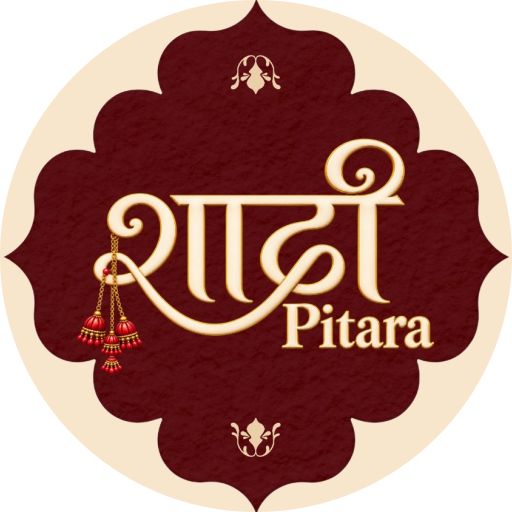
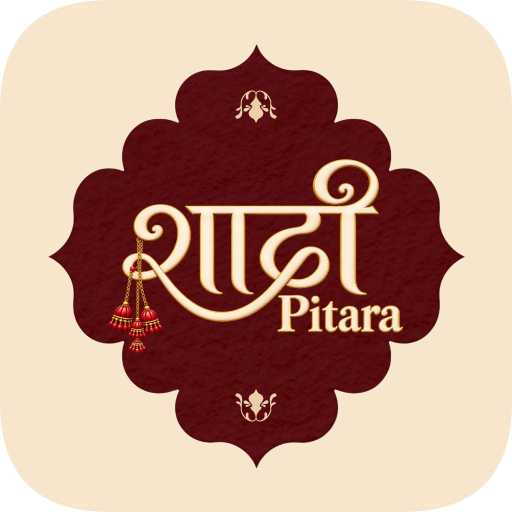
updated

diff --git a/src/app/works/page.jsx b/src/app/works/page.jsx
@@ -71,7 +71,7 @@ function DesktopDraggableRow({ cat, catReels, openModal }) {
   };
 
   return (
-    <div>
+    <div id={`cat-${cat.id}`} data-cat-id={cat.id} data-cat-label={cat.label}>
       {/* Header */}
       <div style={{ display: "flex", alignItems: "center", gap: 16, marginBottom: 20, padding: "0 clamp(16px, 4vw, 48px)" }}>
         <h3 style={{ fontFamily: "'Playfair Display', Georgia, serif", fontSize: "clamp(32px, 3.5vw, 42px)", fontWeight: 400, fontStyle: "italic", margin: 0, color: "var(--brand-cream)", letterSpacing: "0.02em" }}>
@@ -168,19 +168,17 @@ function DesktopDraggableRow({ cat, catReels, openModal }) {
               overflow: "hidden",
               cursor: isDragging ? "grabbing" : "pointer",
               background: "var(--brand-maroon-dark)",
-              border: "1px solid rgba(212,184,150,0.08)",
-              transition: isDragging ? "none" : "transform 0.5s cubic-bezier(0.23,1,0.32,1), border-color 0.5s ease, box-shadow 0.5s ease",
+              border: "1px solid rgba(212,184,150,0.12)",
+              transition: isDragging ? "none" : "transform 0.5s cubic-bezier(0.23,1,0.32,1), border-color 0.5s ease",
             }}
             onMouseEnter={(e) => {
               if (isDragging) return;
               e.currentTarget.style.transform = "scale(1.02)";
-              e.currentTarget.style.borderColor = "rgba(212,184,150,0.3)";
-              e.currentTarget.style.boxShadow = "0 24px 56px rgba(0,0,0,0.35)";
+              e.currentTarget.style.borderColor = "rgba(212,184,150,0.35)";
             }}
             onMouseLeave={(e) => {
               e.currentTarget.style.transform = "scale(1)";
-              e.currentTarget.style.borderColor = "rgba(212,184,150,0.08)";
-              e.currentTarget.style.boxShadow = "none";
+              e.currentTarget.style.borderColor = "rgba(212,184,150,0.12)";
             }}
           >
             <img
@@ -198,11 +196,6 @@ function DesktopDraggableRow({ cat, catReels, openModal }) {
                 transition: "transform 0.7s cubic-bezier(0.23,1,0.32,1)",
               }}
             />
-            <div style={{
-              position: "absolute", inset: 0,
-              background: "linear-gradient(to top, rgba(46,10,13,0.95) 0%, rgba(46,10,13,0.35) 45%, rgba(46,10,13,0.02) 100%)",
-              zIndex: 2, pointerEvents: "none",
-            }} />
             
             {/* Duration */}
             <div style={{
@@ -210,12 +203,12 @@ function DesktopDraggableRow({ cat, catReels, openModal }) {
               zIndex: 5, pointerEvents: "none",
               fontFamily: "var(--font-mono)", fontSize: 10,
               letterSpacing: "0.15em",
-              color: "rgba(245,230,204,0.7)",
-              background: "rgba(46,10,13,0.6)",
+              color: "rgba(245,230,204,0.85)",
+              background: "rgba(26,5,7,0.72)",
               backdropFilter: "blur(6px)",
               padding: "4px 10px",
               borderRadius: 4,
-              border: "1px solid rgba(212,184,150,0.15)",
+              border: "1px solid rgba(212,184,150,0.2)",
             }}>
               {item.duration}
             </div>
@@ -237,8 +230,8 @@ function DesktopDraggableRow({ cat, catReels, openModal }) {
                 width: 52,
                 height: 52,
                 borderRadius: "50%",
-                background: "rgba(10, 2, 3, 0.7)",
-                border: "1.5px solid rgba(212, 184, 150, 0.65)",
+                background: "rgba(10, 2, 3, 0.65)",
+                border: "1.5px solid rgba(212, 184, 150, 0.7)",
                 backdropFilter: "blur(8px)",
                 WebkitBackdropFilter: "blur(8px)",
                 display: "flex",
@@ -246,7 +239,6 @@ function DesktopDraggableRow({ cat, catReels, openModal }) {
                 justifyContent: "center",
                 zIndex: 6,
                 cursor: "pointer",
-                boxShadow: "0 8px 24px rgba(0,0,0,0.55)",
                 transition: "transform 0.3s ease, border-color 0.3s ease, background 0.3s ease",
               }}
               className="card-play-btn"
@@ -266,13 +258,15 @@ function DesktopDraggableRow({ cat, catReels, openModal }) {
               <div style={{
                 fontFamily: "var(--font-mono)", fontSize: 10,
                 letterSpacing: "0.25em", textTransform: "uppercase",
-                color: "var(--brand-gold)", marginBottom: 8,
+                color: "var(--brand-gold)", marginBottom: 6,
+                textShadow: "0 2px 8px rgba(0,0,0,0.9), 0 0 3px rgba(0,0,0,0.95)",
               }}>
                 {cat.label}
               </div>
               <div style={{
                 fontFamily: "var(--font-display)", fontSize: 20,
                 fontWeight: 600, color: "var(--brand-cream)", lineHeight: 1.2,
+                textShadow: "0 2px 10px rgba(0,0,0,0.95), 0 0 4px rgba(0,0,0,1)",
               }}>
                 {item.title}
               </div>
@@ -305,6 +299,40 @@ export default function WorkPage() {
     handleResize();
     window.addEventListener("resize", handleResize);
     return () => window.removeEventListener("resize", handleResize);
+  }, []);
+
+  // Dynamic browser title & active category tab on scroll
+  useEffect(() => {
+    const onScroll = () => {
+      const scrollY = window.scrollY || window.pageYOffset;
+      if (scrollY < 180) {
+        document.title = "Our Works — Shaadi Pitara | Cinematic Wedding Reels";
+        return;
+      }
+
+      let currentCat = null;
+      for (const cat of reelCategories) {
+        const el = document.getElementById(`cat-${cat.id}`) || document.getElementById(`cat-mobile-${cat.id}`);
+        if (el) {
+          const rect = el.getBoundingClientRect();
+          if (rect.top <= window.innerHeight * 0.45 && rect.bottom >= 80) {
+            currentCat = cat;
+          }
+        }
+      }
+
+      if (currentCat) {
+        setActiveTab(currentCat.id);
+        const newTitle = `${currentCat.label} — Our Works | Shaadi Pitara`;
+        if (document.title !== newTitle) {
+          document.title = newTitle;
+        }
+      }
+    };
+
+    window.addEventListener("scroll", onScroll, { passive: true });
+    onScroll();
+    return () => window.removeEventListener("scroll", onScroll);
   }, []);
 
   useEffect(() => {
@@ -448,6 +476,65 @@ export default function WorkPage() {
         </p>
       </div>
 
+      {/* Sticky Category Tabs Bar */}
+      <div
+        style={{
+          position: "sticky",
+          top: 0,
+          zIndex: 45,
+          background: "rgba(26, 5, 7, 0.88)",
+          backdropFilter: "blur(16px)",
+          WebkitBackdropFilter: "blur(16px)",
+          borderBottom: "1px solid rgba(212,184,150,0.12)",
+          padding: "10px clamp(12px, 3vw, 24px)",
+          display: "flex",
+          justifyContent: "center",
+          overflowX: "auto",
+          scrollbarWidth: "none",
+          msOverflowStyle: "none",
+        }}
+        className="cat-tabs-bar"
+      >
+        <style>{`.cat-tabs-bar::-webkit-scrollbar { display: none; }`}</style>
+        <div style={{ display: "flex", gap: 8, alignItems: "center", maxWidth: 1200, width: "100%", justifyContent: isMobile ? "flex-start" : "center" }}>
+          {reelCategories.map((cat) => {
+            const isActive = activeTab === cat.id;
+            return (
+              <button
+                key={cat.id}
+                type="button"
+                onClick={() => {
+                  setActiveTab(cat.id);
+                  const targetId = isMobile ? `cat-mobile-${cat.id}` : `cat-${cat.id}`;
+                  const el = document.getElementById(targetId);
+                  if (el) {
+                    const y = el.getBoundingClientRect().top + window.pageYOffset - 65;
+                    window.scrollTo({ top: y, behavior: "smooth" });
+                  }
+                }}
+                style={{
+                  background: isActive ? "rgba(212,184,150,0.18)" : "transparent",
+                  color: isActive ? "var(--brand-gold)" : "rgba(245,230,204,0.65)",
+                  border: isActive ? "1px solid rgba(212,184,150,0.4)" : "1px solid transparent",
+                  borderRadius: 100,
+                  padding: "6px 14px",
+                  fontFamily: "var(--font-mono)",
+                  fontSize: 10.5,
+                  letterSpacing: "0.12em",
+                  textTransform: "uppercase",
+                  cursor: "pointer",
+                  whiteSpace: "nowrap",
+                  transition: "all 0.25s ease",
+                  flexShrink: 0,
+                }}
+              >
+                {cat.label}
+              </button>
+            );
+          })}
+        </div>
+      </div>
+
       {/* Work grid */}
       <div style={{ maxWidth: 1200, margin: "0 auto", padding: "clamp(32px, 5vw, 56px) 0" }}>
         {isMobile ? (
@@ -457,7 +544,7 @@ export default function WorkPage() {
               const catReels = reelData.filter((r) => r.category === cat.id);
               if (catReels.length === 0) return null;
               return (
-                <div key={cat.id}>
+                <div key={cat.id} id={`cat-mobile-${cat.id}`} data-cat-id={cat.id} data-cat-label={cat.label}>
                   {/* Header */}
                   <div style={{ display: "flex", alignItems: "center", gap: 12, marginBottom: 16, padding: "0 16px" }}>
                     <h3 style={{ fontFamily: "'Playfair Display', Georgia, serif", fontSize: "clamp(24px, 6vw, 32px)", fontWeight: 400, fontStyle: "italic", margin: 0, color: "var(--brand-cream)", letterSpacing: "0.02em" }}>
@@ -485,11 +572,6 @@ export default function WorkPage() {
                         }}
                       >
                         <img src={item.poster} alt={item.title} loading="lazy" style={{ width: "100%", height: "100%", objectFit: "cover" }} />
-                        <div style={{
-                          position: "absolute", inset: 0,
-                          background: "linear-gradient(to top, rgba(46,10,13,0.7) 0%, transparent 50%)",
-                          zIndex: 2, pointerEvents: "none",
-                        }} />
                         {/* Play button */}
                         <button
                           type="button"
@@ -503,7 +585,6 @@ export default function WorkPage() {
                             border: "1.5px solid rgba(212,184,150,0.6)",
                             display: "flex", alignItems: "center", justifyContent: "center",
                             cursor: "pointer",
-                            boxShadow: "0 4px 12px rgba(0,0,0,0.5)",
                           }}
                         >
                           <svg width="10" height="10" viewBox="0 0 24 24" fill="var(--brand-cream)" style={{ marginLeft: 1 }}>

diff --git a/scripts/make-round-favicon.js b/scripts/make-round-favicon.js
@@ -6,68 +6,70 @@ const PUBLIC_DIR = path.join(__dirname, '..', 'public');
 const APP_DIR = path.join(__dirname, '..', 'src', 'app');
 const LOGO_PATH = path.join(PUBLIC_DIR, '1.jpg');
 
-async function generateRoundFavicons() {
+// Helper to draw a rounded rectangle path
+function drawRoundedRect(ctx, x, y, width, height, radius) {
+  ctx.beginPath();
+  ctx.moveTo(x + radius, y);
+  ctx.lineTo(x + width - radius, y);
+  ctx.quadraticCurveTo(x + width, y, x + width, y + radius);
+  ctx.lineTo(x + width, y + height - radius);
+  ctx.quadraticCurveTo(x + width, y + height, x + width - radius, y + height);
+  ctx.lineTo(x + radius, y + height);
+  ctx.quadraticCurveTo(x, y + height, x, y + height - radius);
+  ctx.lineTo(x, y + radius);
+  ctx.quadraticCurveTo(x, y, x + radius, y);
+  ctx.closePath();
+}
+
+async function generateNavbarStyleFavicons() {
   const img = await loadImage(LOGO_PATH);
 
-  // Center and diameter of the circular emblem in 1.jpg
-  const srcCenterX = 512.5;
-  const srcCenterY = 512;
-  const srcRadius = 422; // bounds the circular emblem perfectly
-  const srcDiameter = srcRadius * 2;
-  const srcX = srcCenterX - srcRadius;
-  const srcY = srcCenterY - srcRadius;
-
-  function renderCircle(size) {
+  function renderRounded(size) {
     const canvas = createCanvas(size, size);
     const ctx = canvas.getContext('2d');
 
-    // Antialiased round circular clip
-    ctx.beginPath();
-    ctx.arc(size / 2, size / 2, size / 2, 0, Math.PI * 2);
-    ctx.closePath();
+    // Matching navbar logo: 6px radius on 28px width (~21.4% corner radius)
+    const radius = Math.max(2, Math.round(size * 0.214));
+
+    // Create rounded rect clip
+    drawRoundedRect(ctx, 0, 0, size, size, radius);
     ctx.clip();
 
-    // Draw circular emblem to fill the circle
-    ctx.drawImage(
-      img,
-      srcX, srcY, srcDiameter, srcDiameter,
-      0, 0, size, size
-    );
+    // Draw full 1.jpg image into the rounded rectangle
+    ctx.drawImage(img, 0, 0, size, size);
 
     return canvas.toBuffer('image/png');
   }
 
   const sizes = [16, 32, 48, 180, 192, 512];
   for (const size of sizes) {
-    const buf = renderCircle(size);
+    const buf = renderRounded(size);
     fs.writeFileSync(path.join(PUBLIC_DIR, `favicon-${size}.png`), buf);
     if (size === 180) {
       fs.writeFileSync(path.join(PUBLIC_DIR, 'apple-touch-icon.png'), buf);
       fs.writeFileSync(path.join(APP_DIR, 'apple-icon.png'), buf);
     }
     if (size === 32) {
-      // favicon.ico as PNG format is widely supported by modern browsers
       fs.writeFileSync(path.join(PUBLIC_DIR, 'favicon.ico'), buf);
     }
-    console.log(`Generated favicon ${size}x${size}`);
+    console.log(`Generated rounded-border favicon ${size}x${size} (radius ${Math.round(size * 0.214)}px)`);
   }
 
   // App directory icon for Next.js App Router
-  const appIconBuf = renderCircle(512);
+  const appIconBuf = renderRounded(512);
   fs.writeFileSync(path.join(APP_DIR, 'icon.png'), appIconBuf);
-  console.log('Generated src/app/icon.png (512x512 round PNG)');
+  console.log('Generated src/app/icon.png (512x512 with navbar rounded borders)');
 
-  // Remove square icon.jpg if exists
+  // Ensure no square icon.jpg exists
   const oldIconJpg = path.join(APP_DIR, 'icon.jpg');
   if (fs.existsSync(oldIconJpg)) {
     fs.unlinkSync(oldIconJpg);
-    console.log('Removed old square src/app/icon.jpg');
   }
 
-  console.log('All round favicons generated successfully!');
+  console.log('All rounded-border favicons generated successfully matching navbar logo!');
 }
 
-generateRoundFavicons().catch((err) => {
-  console.error('Error generating round favicons:', err);
+generateNavbarStyleFavicons().catch((err) => {
+  console.error('Error generating rounded-border favicons:', err);
   process.exit(1);
 });

diff --git a/src/app/page.jsx b/src/app/page.jsx
@@ -63,6 +63,39 @@ export default function Home() {
     return () => window.removeEventListener("scroll", handleScroll);
   }, []);
 
+  // Update browser tab title dynamically as sections scroll into view
+  useEffect(() => {
+    const SECTIONS = [
+      { id: "hero-fixed-container", title: "Shaadi Pitara — Cinematic Wedding Reels & Content | Ahmedabad" },
+      { id: "content-sections", title: "Selected Works — Shaadi Pitara" },
+      { id: "services", title: "Services — Shaadi Pitara" },
+      { id: "story", title: "Our Story — Shaadi Pitara" },
+      { id: "testimonials", title: "Kind Words & Reviews — Shaadi Pitara" },
+      { id: "faq", title: "FAQ — Shaadi Pitara" },
+      { id: "contact", title: "Contact Us — Shaadi Pitara" },
+    ];
+
+    const handleTitleScroll = () => {
+      let activeTitle = SECTIONS[0].title;
+      for (const sec of SECTIONS) {
+        const el = document.getElementById(sec.id);
+        if (el) {
+          const rect = el.getBoundingClientRect();
+          if (rect.top <= window.innerHeight * 0.45 && rect.bottom >= 50) {
+            activeTitle = sec.title;
+          }
+        }
+      }
+      if (document.title !== activeTitle) {
+        document.title = activeTitle;
+      }
+    };
+
+    window.addEventListener("scroll", handleTitleScroll, { passive: true });
+    handleTitleScroll();
+    return () => window.removeEventListener("scroll", handleTitleScroll);
+  }, []);
+
   const showWebgl = tier !== null && tier !== "off";
 
   return (
@@ -182,7 +215,7 @@ export default function Home() {
               position: "relative",
               zIndex: 70,
               backgroundColor: "var(--brand-maroon-dark)",
-              boxShadow: "0 -35px 80px rgba(0, 0, 0, 0.85), 0 -1px 0 rgba(212, 184, 150, 0.15)",
+              boxShadow: "none",
             }}
           >
             <Footer />

diff --git a/src/components/ReelShowcase.jsx b/src/components/ReelShowcase.jsx
@@ -211,12 +211,6 @@ function ReelCoverflow({ reels, onOpen, getCatLabel }) {
                 draggable={false}
                 style={{ width: "100%", height: "100%", objectFit: "cover", display: "block", pointerEvents: "none" }}
               />
-              {/* Gradient overlay */}
-              <div style={{
-                position: "absolute", inset: 0,
-                background: "linear-gradient(to top, rgba(26,4,8,0.9) 0%, rgba(26,4,8,0.2) 50%, transparent 100%)",
-                pointerEvents: "none",
-              }} />
               {/* Play button */}
               <button
                 type="button"
